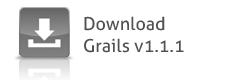
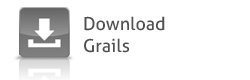
tweaked layout, fixed links to download and plugins, corrected download image to not have version number

Changed region(s): [[0.532, 0.5, 0.756, 0.65]]

diff --git a/grails-samples/grails.org/web-app/css/new/homepage.css b/grails-samples/grails.org/web-app/css/new/homepage.css
@@ -107,7 +107,7 @@
     margin: 9px 0px 0px 27px;
     padding: 0px;
     font-weight: normal;
-    font-size: 18pt;
+    font-size: 16pt;
 }
 
 #events ul {
@@ -160,12 +160,12 @@
 
 .downloadPluginWrapper div {
     height: 114px;
-    padding: 77px 0px 0px 21px;
+    padding: 0px 0px 0px 10px;
 }
 
 #download {
-    background: url(../../images/new/download_button.png) no-repeat top left;
-    margin: 15px 0px 0px 11px;
+
+    margin: 5px 0px 0px 11px;
     position: absolute;
     top: 0px;
     left: 0px;
@@ -174,8 +174,8 @@
 }
 
 #plugins {
-    background: url(../../images/new/plugins_button.png) no-repeat top left;
-    margin: 15px 0px 0px 11px;
+/*    background: url(../../images/new/plugins_button.png) no-repeat top left;*/
+    margin: 5px 0px 0px 11px;
     position: absolute;
     top: 0px;
     left: 295px;
@@ -184,6 +184,8 @@
 }
 
 #plugins ul {
+	position:relative;
+	top:-10px;
     margin: 0px;
     padding: 0px;
     list-style: none;
@@ -199,14 +201,15 @@
     color: #48802C;
 }
 
-#download h3, #plugins h3 {
-    display: none;
+#download h4 a:visited,#download h4 a:link, #plugins h4 a:link {
+    color: #48802C;
+	text-decoration:none;
 }
-
 #download h4, #plugins h4 {
     text-transform: uppercase;
-    position: absolute;
-    bottom: 0px;
+	position:absolute;
+    top: 160px;
+
 }
 
 .newsScreencastWrapper {
